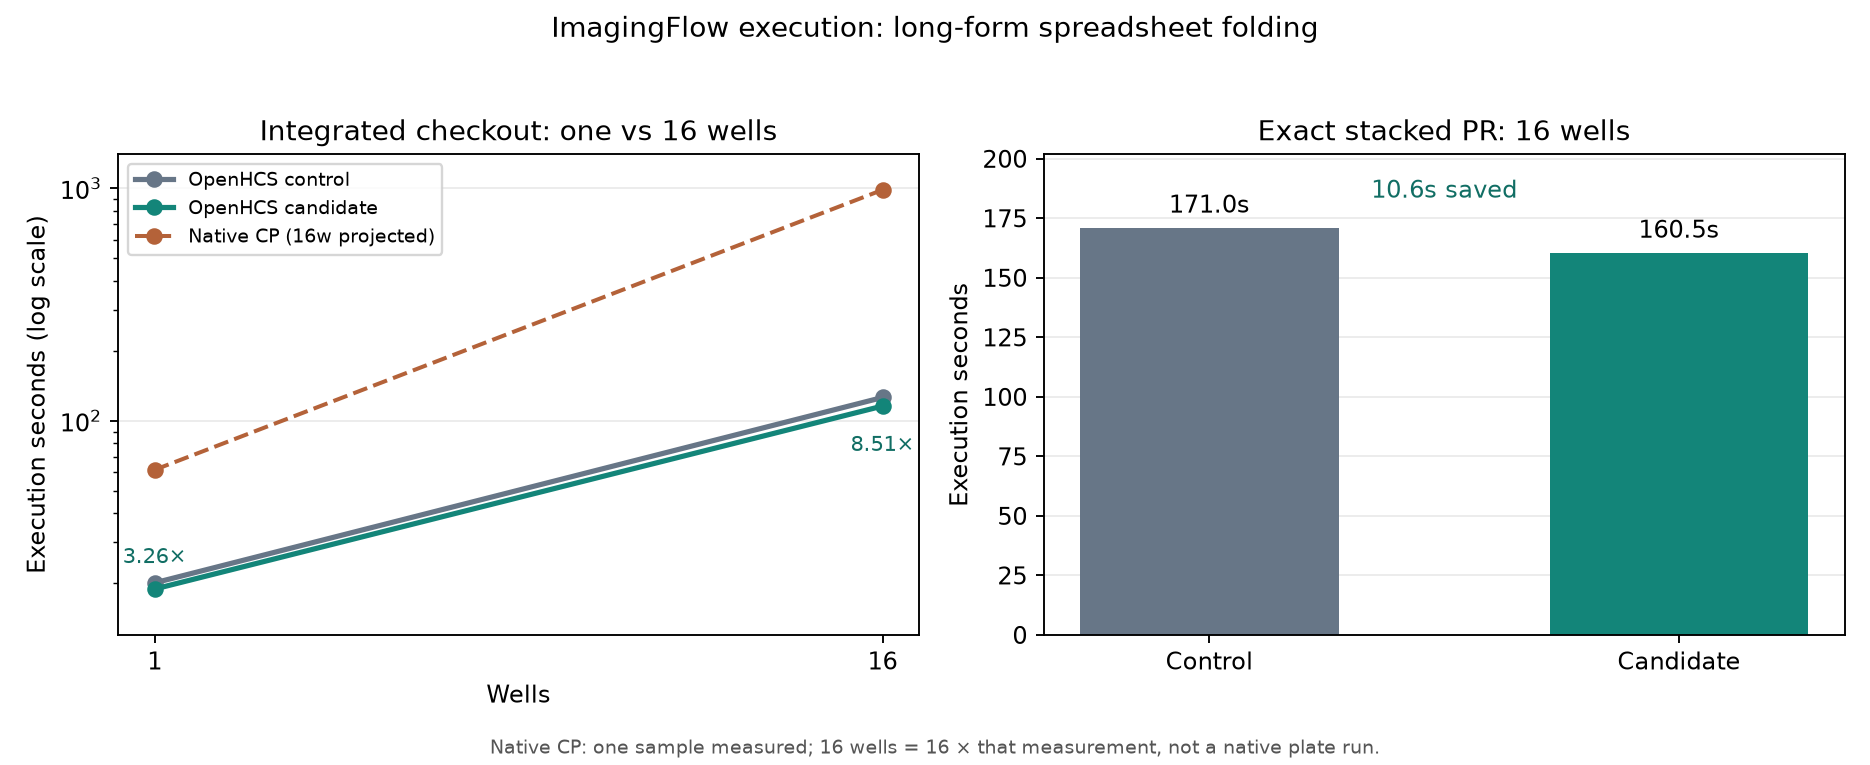
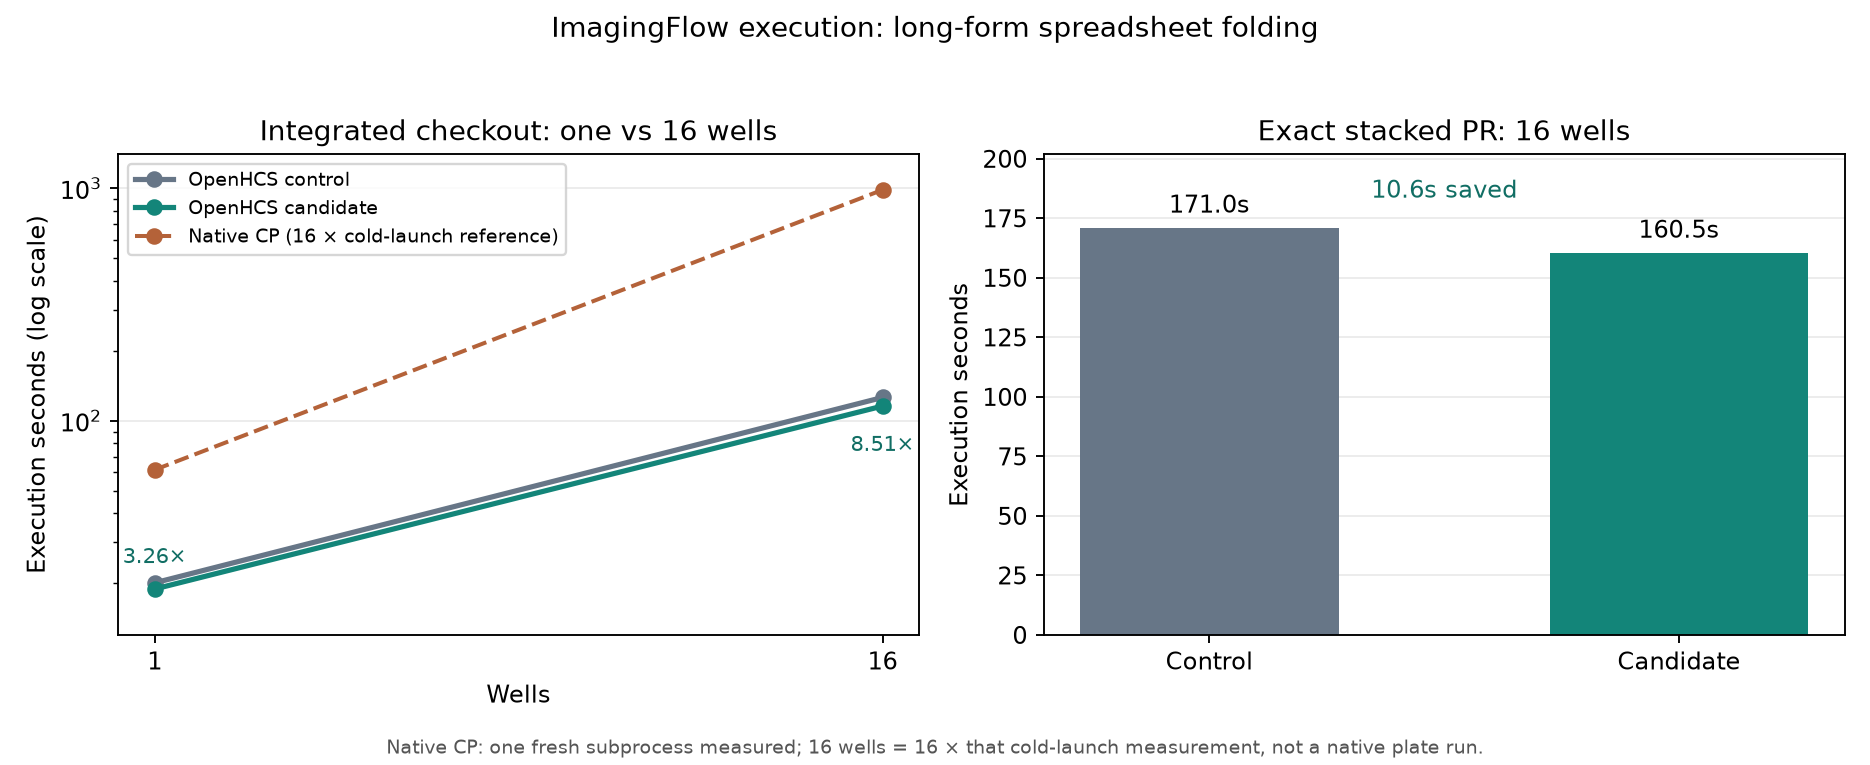
Clarify cold native projection and total timing in export report
Issue #196 now has a measured warm native four-job pilot. Label the prior 16× cold-launch projection distinctly and account for compilation and fresh-server overhead in PR #195's reported total time.

Changed region(s): [[0.1861, 0.9621, 0.7754, 0.9922], [0.1551, 0.3007, 0.3102, 0.3307]]

diff --git a/benchmark/results/perf_long_form_export_20260929/plot.py b/benchmark/results/perf_long_form_export_20260929/plot.py
@@ -45,7 +45,7 @@ def main() -> None:
         linestyle="--",
         linewidth=1.7,
         color="#b46239",
-        label="Native CP (16w projected)",
+        label="Native CP (16 × cold-launch reference)",
     )
     scaling.set(
         title="Integrated checkout: one vs 16 wells",
@@ -103,8 +103,8 @@ def main() -> None:
     figure.text(
         0.5,
         0.015,
-        "Native CP: one sample measured; 16 wells = 16 × that measurement, "
-        "not a native plate run.",
+        "Native CP: one fresh subprocess measured; 16 wells = 16 × that cold-launch "
+        "measurement, not a native plate run.",
         ha="center",
         fontsize=8,
         color="#555555",

diff --git a/benchmark/results/perf_long_form_export_20260929/README.md b/benchmark/results/perf_long_form_export_20260929/README.md
@@ -1,6 +1,6 @@
 # Faster long-form spreadsheet folding (2026-09-29)
 
-This report supports [issue #194](https://github.com/OpenHCSDev/openhcs/issues/194) and [draft PR #195](https://github.com/OpenHCSDev/openhcs/pull/195), stacked on [plate-input transport PR #193](https://github.com/OpenHCSDev/openhcs/pull/193). The only code change is inside `WideMeasurementRowAccumulator`: when a long-form columnar table declares fixed object scope, one image identity, one object ID, and no additional wide feature columns, it folds the cells without repeatedly deriving ownership and subject maps. All other row shapes use the existing loop. Duplicate-value conflict checks, feature projection, output ordering, and the accumulator's nominal authority remain in place.
+This report supports [issue #194](https://github.com/OpenHCSDev/openhcs/issues/194) and [PR #195](https://github.com/OpenHCSDev/openhcs/pull/195), stacked on [plate-input transport PR #193](https://github.com/OpenHCSDev/openhcs/pull/193). The only code change is inside `WideMeasurementRowAccumulator`: when a long-form columnar table declares fixed object scope, one image identity, one object ID, and no additional wide feature columns, it folds the cells without repeatedly deriving ownership and subject maps. All other row shapes use the existing loop. Duplicate-value conflict checks, feature projection, output ordering, and the accumulator's nominal authority remain in place.
 
[1 lines of base64/hex data omitted]
 
@@ -15,7 +15,9 @@ All runs below use the ordinary ZMQ route, a fresh client-owned server per obser
 
 The integrated control includes pending changes from PRs #157, #170, #175, #191, and #193; the candidate adds only this accumulator change. The exact stacked PR branches from #193 and lacks the separate #170/#175 changes, so it has a different absolute runtime and CSV from the integrated checkout. Its parent and candidate were compared only against each other. Both 16-well pairs saved about **10.5 seconds** of execution and total time. All **30/30** official one-well cases succeeded and **110/110** generated result files matched by relative path and bytes. The exact stacked 16-well CSV also matched its parent byte for byte. These checks establish output parity within each branch pair; they do not claim parity between branches with different pending code.
 
-The separately measured native CellProfiler 4.2.8.1 single-sample execution is **61.602 seconds** for ImagingFlow. Multiplying by 16 gives a **985.625-second projection**, not a measured native 16-well plate. The integrated candidate's execution is 3.26× faster at one well and 8.51× faster than that projection at 16 wells. The exact stacked candidate is 6.14× faster than the 16-well projection. Native CP execution is compared only to OpenHCS execution, not OpenHCS total time.
+The candidate 16-well total exceeds server execution by **13.106 seconds**: **10.065 seconds** of compilation and **3.041 seconds** of fresh-server/client overhead. Summed across 30 independently launched one-well cases, the **134.174-second** gap is **70.196 seconds** of compilation and **63.978 seconds** of other per-case work. The benchmark total timer begins after source workspace preparation and pipeline import.
+
+The separately measured native CellProfiler 4.2.8.1 single-sample `EXECUTE_NATIVE_CP` phase is **61.602 seconds** for ImagingFlow and includes launching a fresh native subprocess. Multiplying by 16 gives a **985.625-second cold-launch projection**, not a measured native 16-well plate or a matched warmed-run speedup. The independent warm native experiment in [issue #196](https://github.com/OpenHCSDev/openhcs/issues/196) measured **59.680 seconds** at one well and **388.431 seconds** at 16 wells with four concurrent native jobs. Against this PR's matching OpenHCS server-execution observations, the measured warm ratios are **3.15×** and **3.35×**, respectively. The figure below retains the earlier projection explicitly as historical context; the measured-native report will supply the updated figure.
 
 ![ImagingFlow execution scaling against native CP](imagingflow_scaling_vs_native.png)
 
